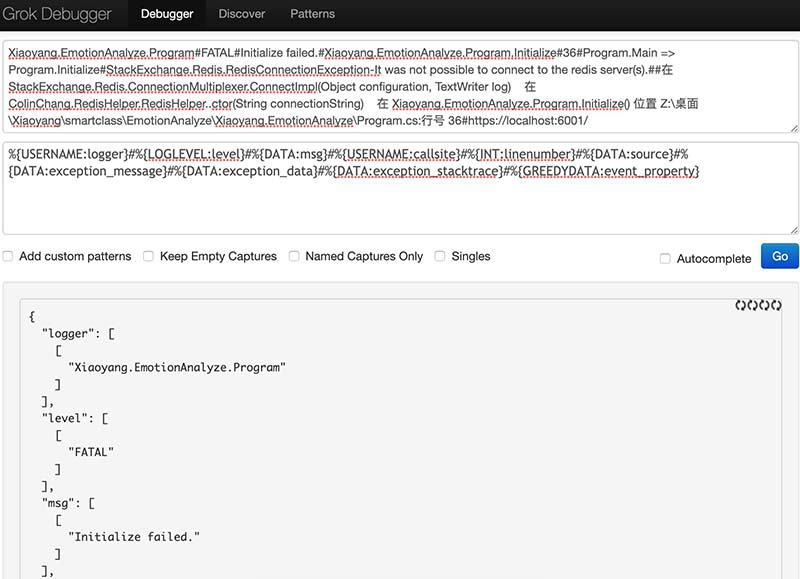
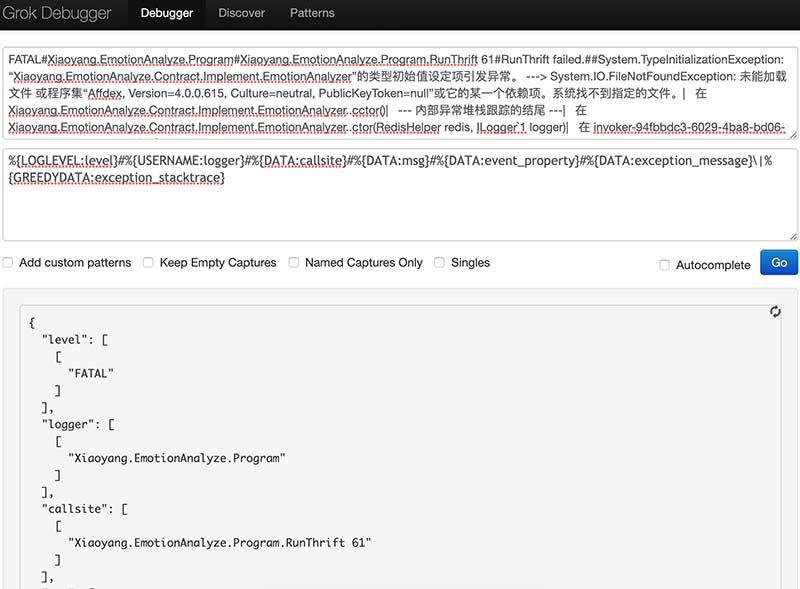
update ELK doc

diff --git a/pages/log-elk.md b/pages/log-elk.md
@@ -60,12 +60,12 @@ input负责日志采集，output负责日志输出，而filter则负责日志分
 例如，定义grok pattern如下。
 ```json
 grok {
-    match => {"message"=>"%{USERNAME:logger}#%{LOGLEVEL:level}#%{DATA:msg}#%{USERNAME:callsite}#%{INT:linenumber}#%{DATA:source}#%{DATA:exception_message}#%{DATA:exception_data}#%{DATA:exception_stacktrace}#%{GREEDYDATA:event_property}"}
+    match => {"message"=>"%{LOGLEVEL:level}#%{USERNAME:logger}#%{DATA:callsite}#%{DATA:msg}#%{DATA:event_property}#%{DATA:exception_message}\|%{GREEDYDATA:exception_stacktrace}"}
 }
 ```
 示例错误日志。
 ```
-Xiaoyang.EmotionAnalyze.Program#FATAL#Initialize failed.#Xiaoyang.EmotionAnalyze.Program.Initialize#36#Program.Main => Program.Initialize#StackExchange.Redis.RedisConnectionException-It was not possible to connect to the redis server(s).##在 StackExchange.Redis.ConnectionMultiplexer.ConnectImpl(Object configuration, TextWriter log)    在 ColinChang.RedisHelper.RedisHelper..ctor(String connectionString)    在 Xiaoyang.EmotionAnalyze.Program.Initialize() 位置 Z:\桌面\Xiaoyang\smartclass\EmotionAnalyze\Xiaoyang.EmotionAnalyze\Program.cs:行号 36#https://localhost:6001/
+FATAL#Xiaoyang.EmotionAnalyze.Program#Xiaoyang.EmotionAnalyze.Program.RunThrift 61#RunThrift failed.##System.TypeInitializationException: “Xiaoyang.EmotionAnalyze.Contract.Implement.EmotionAnalyzer”的类型初始值设定项引发异常。 ---> System.IO.FileNotFoundException: 未能加载文件 或程序集“Affdex, Version=4.0.0.615, Culture=neutral, PublicKeyToken=null”或它的某一个依赖项。系统找不到指定的文件。|   在 Xiaoyang.EmotionAnalyze.Contract.Implement.EmotionAnalyzer..cctor()|   --- 内部异常堆栈跟踪的结尾 ---|   在 Xiaoyang.EmotionAnalyze.Contract.Implement.EmotionAnalyzer..ctor(RedisHelper redis, ILogger`1 logger)|   在 invoker-94fbbdc3-6029-4ba8-bd06-c3b11de6d8a1(Object[] )|   在 AspectCore.Injector.ServiceCallSiteResolver.<>c__DisplayClass4_0.<ResolveCallback>b__0(ServiceResolver resolver)|   在 AspectCore.Injector.ServiceCallSiteResolver.<>c__DisplayClass8_0.<ResolveProxyService>b__0(ServiceResolver resolver)|   在 AspectCore.Injector.ServiceCallSiteResolver.<>c__DisplayClass4_0.<ResolveCallback>b__0(ServiceResolver resolver)|   在 System.Collections.Concurrent.ConcurrentDictionary`2.GetOrAdd(TKey key, Func`2 valueFactory)|   在 Microsoft.Extensions.DependencyInjection.ServiceProviderServiceExtensions.GetService[T](IServiceProvider provider)|   在 Xiaoyang.EmotionAnalyze.Program.RunThrift(Int32 port) 位置 Z:\桌面\Xiaoyang\smartclass\EmotionAnalyze\Xiaoyang.EmotionAnalyze\Program.cs:行号 61
 ```
 
 我们通过使用[Grok Debugger(Pattern填写正则即可)](http://grokdebug.herokuapp.com/)来快速测试匹配结果。
@@ -107,25 +107,25 @@ $ docker-compose down
 参照[NLog文档](https://github.com/NLog/NLog.web/wiki)进行简单配置，可以通过控制台输出测试的日志内容和格式是否正确。
 
 以上基本配置完成后，在`nlog.config`文件中`nlong`下添加如下配置。
-```xml
-    <targets>
-        <!-- 打印日志到控制台 -->
-        <target xsi:type="Console" name="console"
-                layout="${logger}#${level:uppercase=true}#${message}#${callsite:includeSourcePath=true}#${callsite-linenumber}#${stacktrace:topFrames=10}#${exception:format=Type}-${exception}#${replace-newlines:${exception:format=Data}}#${replace-newlines:${exception:format=StackTrace:trimWhiteSpace=true}}#${event-properties:item=EventId}" />
-        <!-- 记录日志到 logstash -->
-        <target xsi:type="Network" name="logstash" keepConnection="false"
-                address="tcp://127.0.0.1:5000"
-                layout="${logger}#${level:uppercase=true}#${message}#${callsite:includeSourcePath=true}#${callsite-linenumber}#${stacktrace:topFrames=10}#${exception:format=Type}-${exception}#${replace-newlines:${exception:format=Data}}#${replace-newlines:${exception:format=StackTrace:trimWhiteSpace=true}}#${event-properties:item=EventId}" />
-    </targets>
-    
-    <rules>
-        <!-- 所有Warn级别以上日志打印到控制台 -->
-        <logger name="*" minlevel="Warn" writeTo="console" />
-        
-        <!-- 自定义日志Trace级别以上 + 系统Info级别以上 记录到logstash中 -->
-        <logger name="Microsoft.*" maxlevel="Info" final="true" />
-        <logger name="*" minlevel="Trace" writeTo="logstash" />
-    </rules>
+```xml    
+  <targets>
+    <!-- 打印日志到控制台 -->
+    <target xsi:type="Console" name="console"
+            layout="${date} | ${level:uppercase=true} | ${logger} | ${message} | ${replace-newlines:${exception:format=toString}}" />
+    <!-- 记录日志到 logstash -->
+    <target xsi:type="Network" name="logstash" keepConnection="false"
+            address="tcp://192.168.0.211:5000"
+            layout="${level:uppercase=true}#${logger}#${callsite:includeSourcePath=true} ${callsite-linenumber}#${message}#${replace-newlines:${event-properties:item=EventId}}#${replace-newlines:replacement=|:${exception:format=ToString}}"/>
+  </targets>
+
+  <rules>
+    <!-- 忽略系统Info级别以下日志 -->
+    <logger name="Microsoft.*" maxlevel="Info" final="true"/>
+    <!-- Trace级别以上日志输出到控制台 -->
+    <logger name="*" minlevel="Trace" writeTo="console"/>
+    <!-- Info级别以上日志输出logstash -->
+    <logger name="*" minlevel="Info" writeTo="logstash"/>
+  </rules>
 ```
 
 * **Targets**
